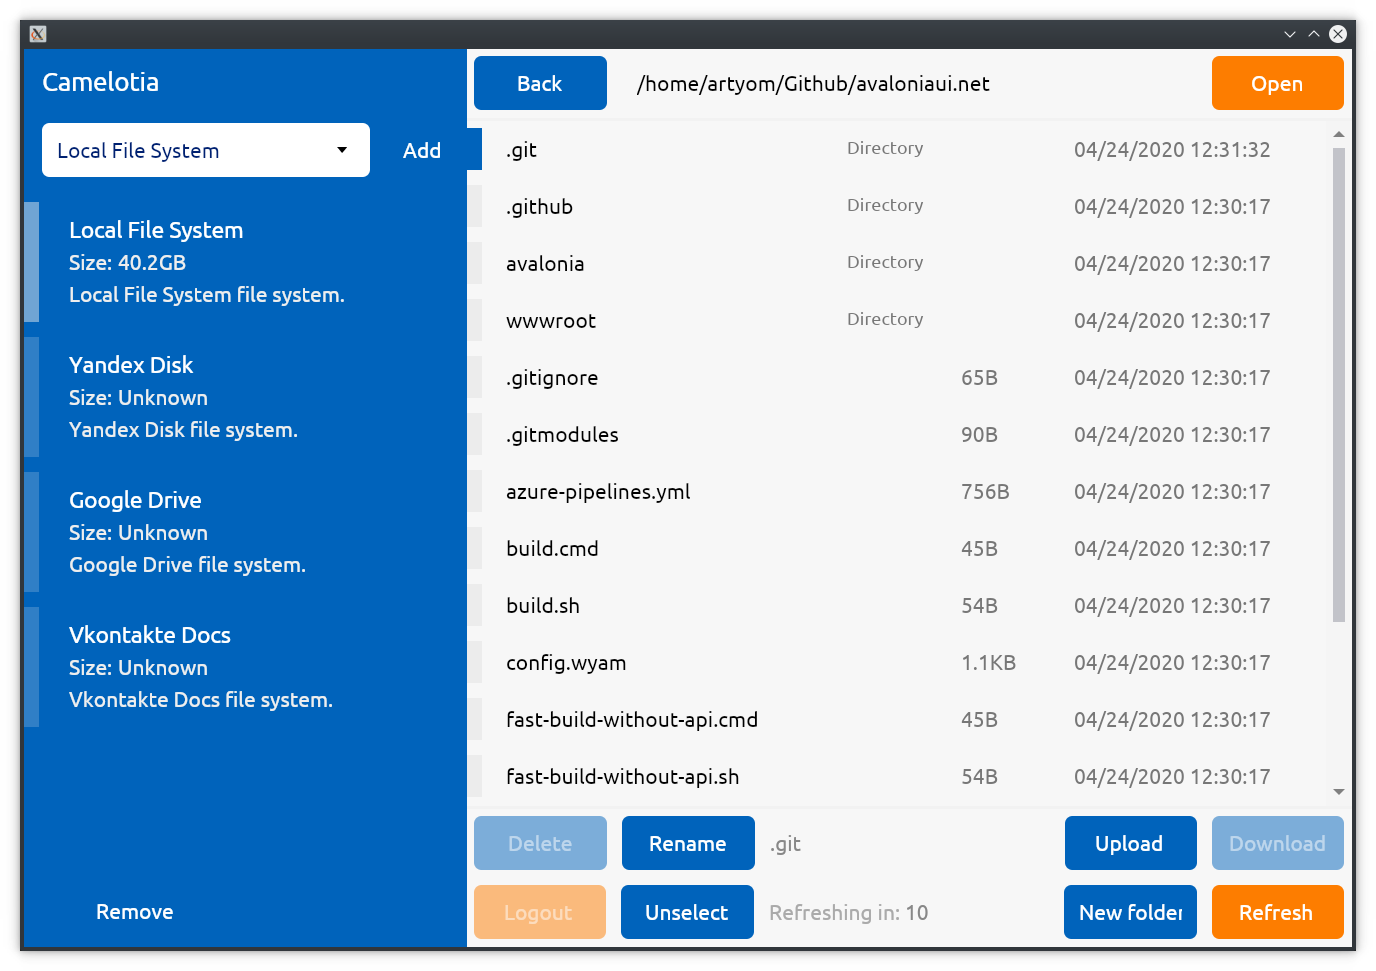
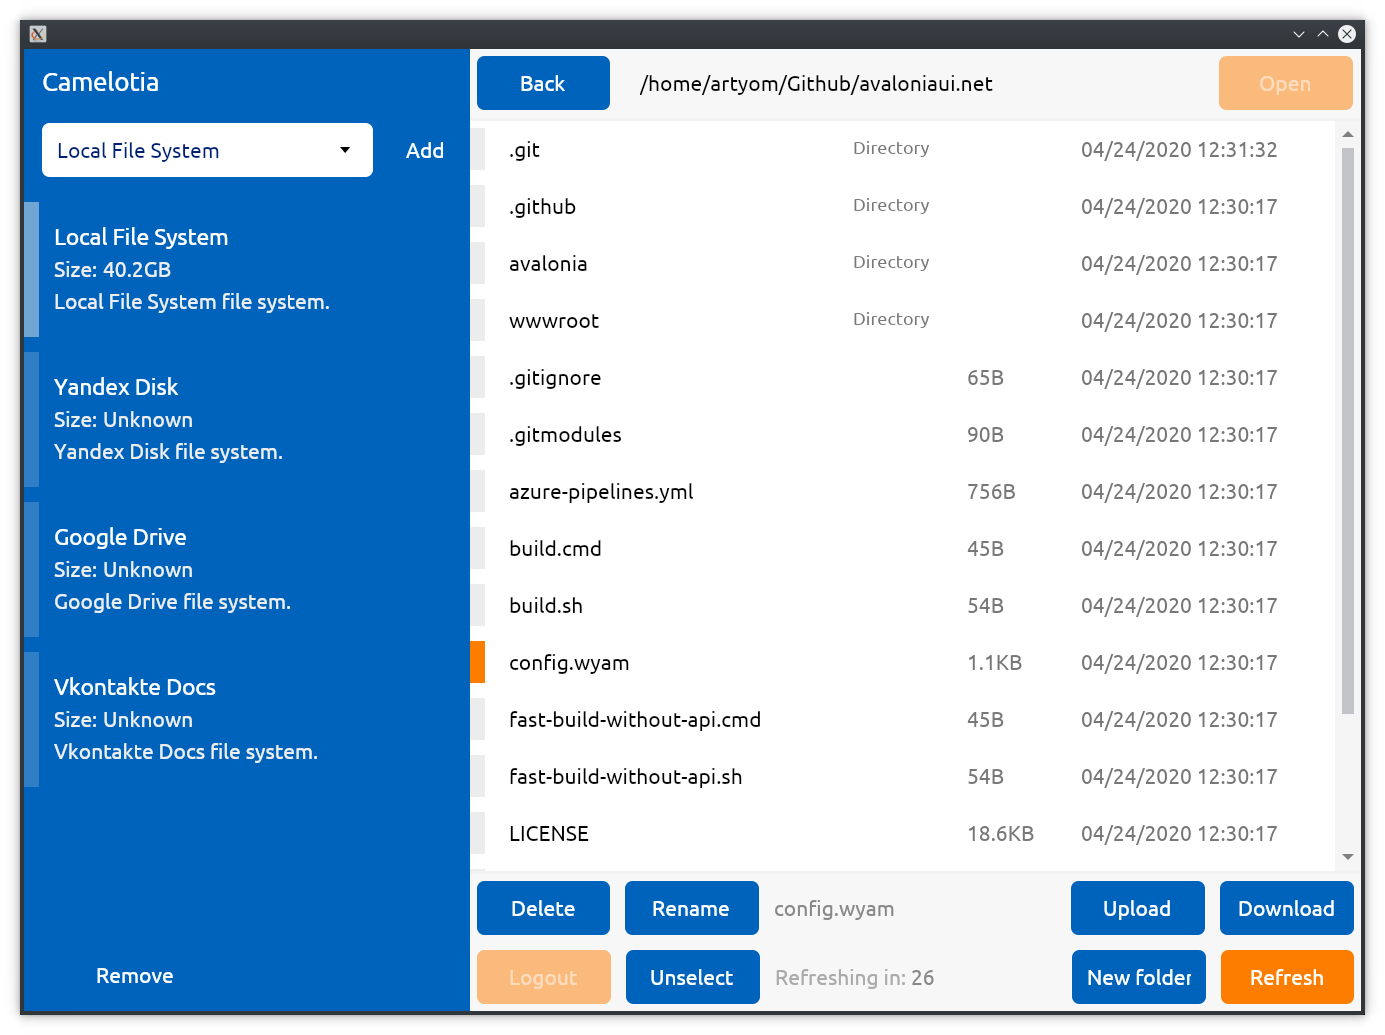
More accurate UI

diff --git a/src/Camelotia.Presentation.Avalonia/App.xaml b/src/Camelotia.Presentation.Avalonia/App.xaml
@@ -9,6 +9,7 @@
         </Style>
         <Style Selector="ListBox.Menu > ListBoxItem">
             <Setter Property="BorderBrush" Value="#33f0f0f0" />
+            <Setter Property="Padding" Value="0 5" />
         </Style>
         <Style Selector="ListBox.Menu > ListBoxItem:selected /template/ ContentPresenter">
             <Setter Property="BorderBrush" Value="#77f0f0f0" />

diff --git a/src/Camelotia.Presentation.Avalonia/Views/ProviderView.xaml b/src/Camelotia.Presentation.Avalonia/Views/ProviderView.xaml
@@ -40,6 +40,7 @@
             <Border Grid.Row="1" BorderBrush="#f2f2f2" BorderThickness="0 2 0 2">
                 <Grid>
                     <ListBox Padding="0"
+                             Background="#ffffff"
                              BorderThickness="0"
                              SelectionMode="Toggle"
                              Items="{Binding Files}"
